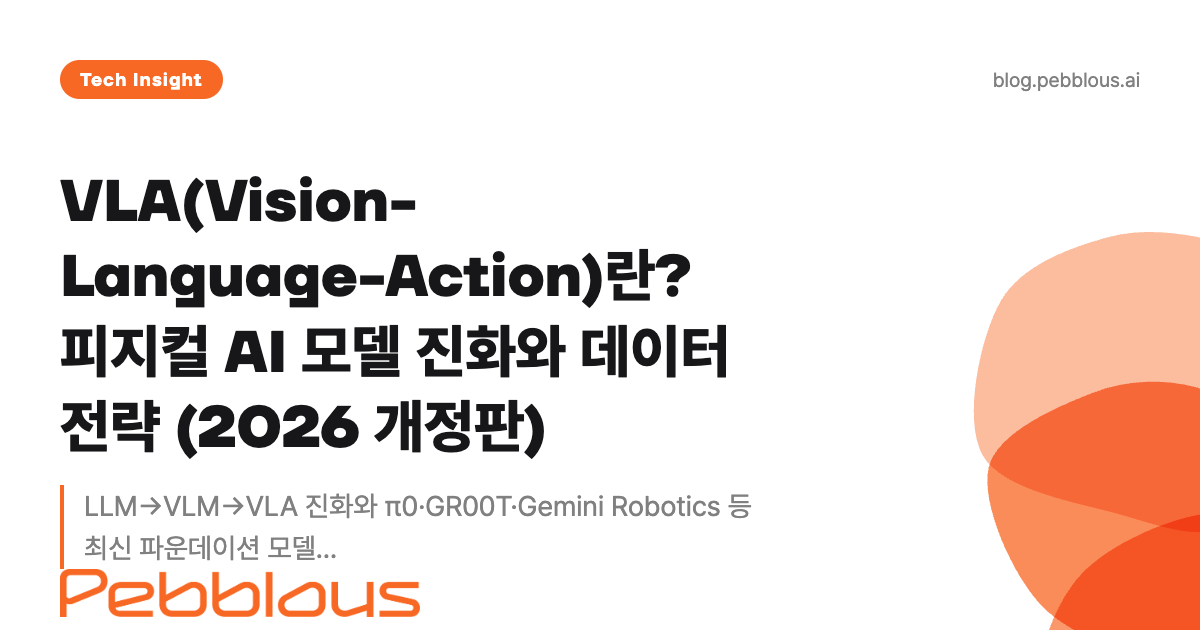
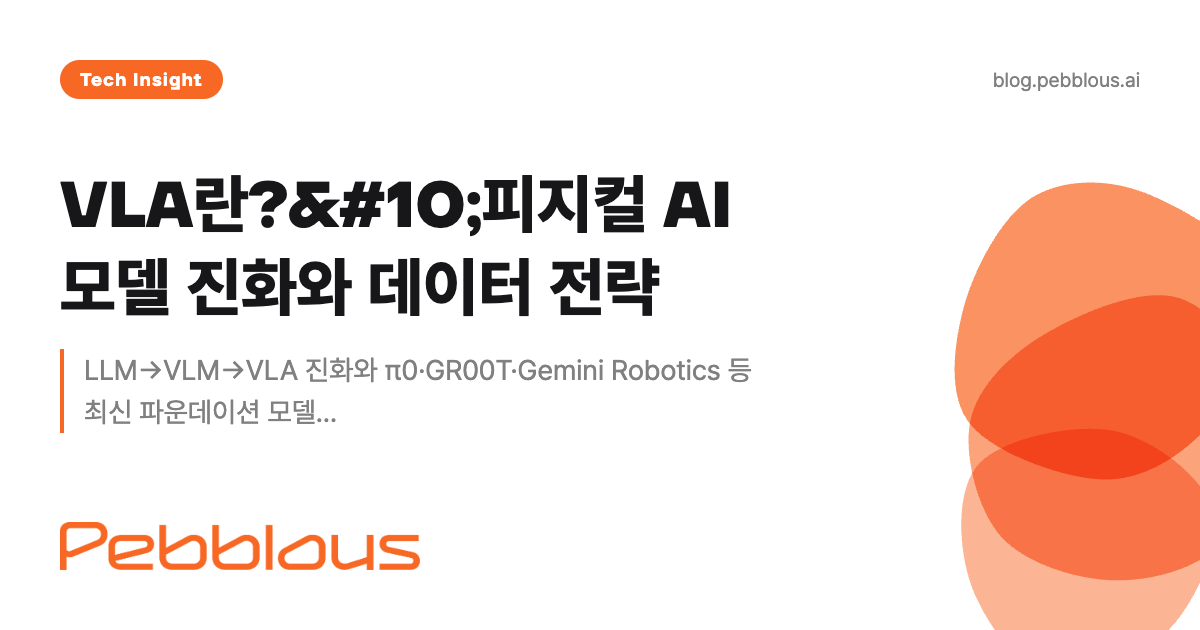
chore(titles): 제목·메타 일괄 교정 1건/2필드 (제목 검토 콘솔)\n\n- physical-ai-hub:\n    제목: VLA(Vision-Language-Action)란? → Vision-Language-Action 모델: VLA란?\n    OG 이미지 제목: VLA(Vision-Language-Action)란?&#10;피지컬 AI 모델 진화와 데이터 전략 (2026 개정판) → VLA란?&#10;피지컬 AI 모델 진화와 데이터 전략

Changed region(s): [[0.0308, 0.2714, 0.6475, 0.7238], [0.7708, 0.2714, 1.0, 1.0], [0.0308, 0.7841, 0.6475, 0.9952]]

diff --git a/project/PhysicalAI/physical-ai/ko/index.html b/project/PhysicalAI/physical-ai/ko/index.html
@@ -10,7 +10,7 @@
     <meta name="robots" content="index, follow">
     <meta name="revisit-after" content="7 days">
 
-    <title>VLA(Vision-Language-Action)란? — 피지컬 AI 모델 진화와 데이터 전략 (2026 개정판) | 페블러스</title>
+    <title>Vision-Language-Action 모델: VLA란? | 페블러스</title>
     <meta name="description" content="VLA(Vision-Language-Action) 모델이란? LLM→VLM→VLA 진화, π0·GR00T·Gemini Robotics 등 최신 파운데이션 모델, 그리고 피지컬 AI의 진짜 승부처인 데이터 전략을 정리한 2026년 개정판 종합 가이드.">
     <meta name="keywords" content="피지컬 AI, Physical AI, VLA, VLM, LLM, Vision Language Action, VLA 파운데이션 모델, π0, GR00T, Gemini Robotics, Figure Helix, OpenVLA, Open X-Embodiment, 피지컬 AI 데이터, 센서 퓨전, Sim-to-Real Gap, 합성 데이터, Synthetic Data, 로보틱스 파운데이션 모델, 엠바디드 AI, Embodied AI, 휴머노이드, 스마트 팩토리, AI 자율제조, NVIDIA Cosmos, 디지털 트윈, 페블러스, Pebblous, DataClinic, AI-Ready Data, AI Safety, 에지 컴퓨팅, On-device AI, 텔레오퍼레이션, 피지컬 AI 투자">
 
@@ -20,9 +20,9 @@
     <link rel="alternate" hreflang="x-default" href="https://blog.pebblous.ai/project/PhysicalAI/physical-ai/ko/">
 
     <!-- Open Graph -->
-    <meta name="og-image-title" content="VLA(Vision-Language-Action)란?&#10;피지컬 AI 모델 진화와 데이터 전략 (2026 개정판)">
+    <meta name="og-image-title" content="VLA란?&amp;#10;피지컬 AI 모델 진화와 데이터 전략 ">
     <meta property="og:type" content="article">
-    <meta property="og:title" content="VLA(Vision-Language-Action)란? — 피지컬 AI 모델 진화와 데이터 전략 (2026 개정판)">
+    <meta property="og:title" content="Vision-Language-Action 모델: VLA란?">
     <meta property="og:description" content="LLM→VLM→VLA 진화와 π0·GR00T·Gemini Robotics 등 최신 파운데이션 모델, 그리고 피지컬 AI의 진짜 승부처인 데이터 전략.">
     <meta property="og:url" content="https://blog.pebblous.ai/project/PhysicalAI/physical-ai/ko/">
     <meta property="og:image" content="https://blog.pebblous.ai/project/PhysicalAI/physical-ai/ko/image/index.png">
@@ -36,7 +36,7 @@
 
     <!-- Twitter Card -->
     <meta name="twitter:card" content="summary_large_image">
-    <meta name="twitter:title" content="VLA(Vision-Language-Action)란? — 피지컬 AI 모델 진화와 데이터 전략 (2026 개정판)">
+    <meta name="twitter:title" content="Vision-Language-Action 모델: VLA란?">
     <meta name="twitter:description" content="LLM→VLM→VLA 진화와 최신 VLA 파운데이션 모델, 피지컬 AI의 진짜 승부처인 데이터 전략.">
     <meta name="twitter:image" content="https://blog.pebblous.ai/project/PhysicalAI/physical-ai/ko/image/index.png">
     <meta name="twitter:image:alt" content="VLA(Vision-Language-Action)란? — 피지컬 AI 모델 진화와 데이터 전략">
@@ -887,9 +887,9 @@
               },
               "recordedAt": "2026-07-24T09:06:17.283Z"
             },
-            mainTitle: "VLA(Vision-Language-Action)란?",
+            mainTitle: "Vision-Language-Action 모델: VLA란?",
             subtitle: "피지컬 AI 모델 진화와 데이터 전략 (2026 개정판)",
-            pageTitle: "VLA(Vision-Language-Action)란? — 피지컬 AI 모델 진화와 데이터 전략 (2026 개정판) | 페블러스",
+            pageTitle: "Vision-Language-Action 모델: VLA란? | 페블러스",
             category: "tech",
             publishDate: "2025-12-27",
             publisher: "(주)페블러스 데이터 커뮤니케이션팀",
